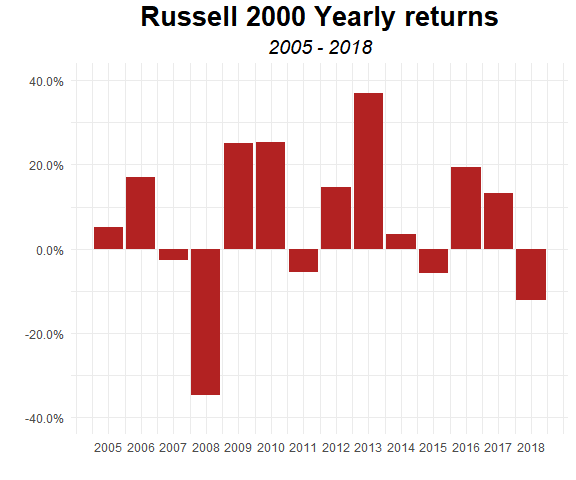
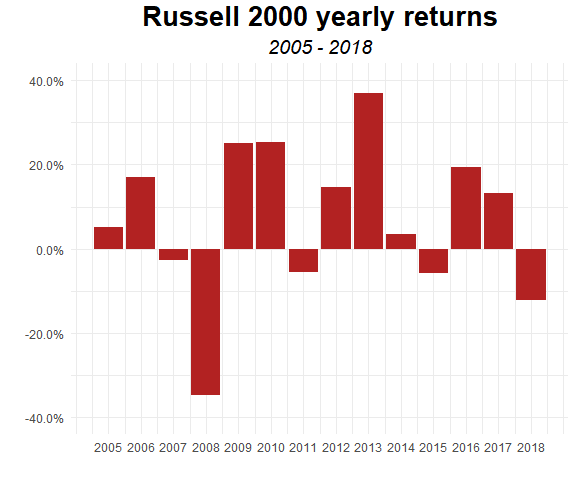
edit files

Changed region(s): [[0.2188, 0.0, 0.875, 0.0625]]

diff --git a/stock_market_indexes.md b/stock_market_indexes.md
@@ -7,6 +7,7 @@ December 29, 2018
 -   [nasdaq composite (NASDAQ)](#nasdaq-composite-nasdaq)
 -   [dow jones industrial average (DJIA)](#dow-jones-industrial-average-djia)
 -   [Russell 2000 (RUT)](#russell-2000-rut)
+-   [total returns 2009 - 2018](#total-returns-2009---2018)
 
 ``` r
 library(tidyverse)
@@ -14,6 +15,7 @@ library(purrrlyr)
 library(tidyquant)
 library(XLConnect)
 library(gridExtra)
+library(ggthemes)
 library(ggthemes)
 library(scales)
 library(knitr)
@@ -538,9 +540,60 @@ russ2000_yearly_returns %>%
         plot.subtitle = element_text(size = 14,
                                      hjust = 0.5,
                                      face = "italic")) +
-  labs(title = "Russell 2000 Yearly returns",
+  labs(title = "Russell 2000 yearly returns",
        subtitle = "2005 - 2018",
        x = "", y = "")
 ```
 
 ![](stock_market_indexes_files/figure-markdown_github/unnamed-chunk-5-3.png)
+
+total returns 2009 - 2018
+-------------------------
+
+``` r
+tibble(`stock index` = c("S&P 500", "NASDAQ", "DJIA", "Russell 2000"),
+       ytd = c(sp500_yearly_returns %>% tail(1) %>% .[[2]],
+               nasdaq_yearly_returns %>% tail(1) %>% .[[2]],
+               dji_yearly_returns %>% tail(1) %>% .[[2]],
+               russ2000_yearly_returns %>% tail(1) %>% .[[2]])) %>%
+  mutate(ytd = percent(ytd, accuracy = .1)) %>% 
+  spread(`stock index`, ytd) %>%
+  select(4,2,1,3) %>%
+  kable()
+```
+
+| S&P 500 | NASDAQ | DJIA  | Russell 2000 |
+|:--------|:-------|:------|:-------------|
+| -6.2%   | -3.9%  | -5.6% | -12.2%       |
+
+``` r
+#plot
+tibble(`stock index` = c("S&P 500", "NASDAQ", "DJIA", "Russell 2000"),
+       ytd = c(sp500_yearly_returns %>% tail(1) %>% .[[2]],
+               nasdaq_yearly_returns %>% tail(1) %>% .[[2]],
+               dji_yearly_returns %>% tail(1) %>% .[[2]],
+               russ2000_yearly_returns %>% tail(1) %>% .[[2]])) %>%
+  dmap_at(1, as_factor) %>%
+  ggplot(aes(`stock index`, ytd, fill = `stock index`)) +
+  geom_bar(stat = "identity", show.legend = F) +
+  scale_fill_tableau(palette = "Tableau 10") +
+  scale_y_continuous(labels = percent_format()) +
+  theme(plot.title = element_text(size = 18,
+                                  family = "Times",
+                                  face = "bold",
+                                  color = "black",
+                                  hjust = 0.5,
+                                  vjust = 2,
+                                  lineheight = 2),
+        plot.subtitle = element_text(size = 12,
+                                     hjust = 0.5,
+                                     face = "italic"),
+        axis.text.x = element_text(face = "bold",
+                                   color = "black",
+                                   size = 10)) +
+  labs(title = "Major Markets 2018 Performance ",
+       subtitle = "all major indexes show negative returns",
+       x = "", y = "")
+```
+
+![](stock_market_indexes_files/figure-markdown_github/unnamed-chunk-6-1.png)
